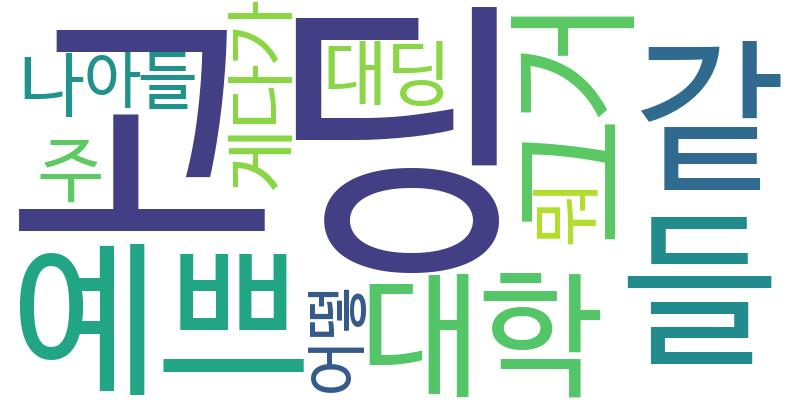
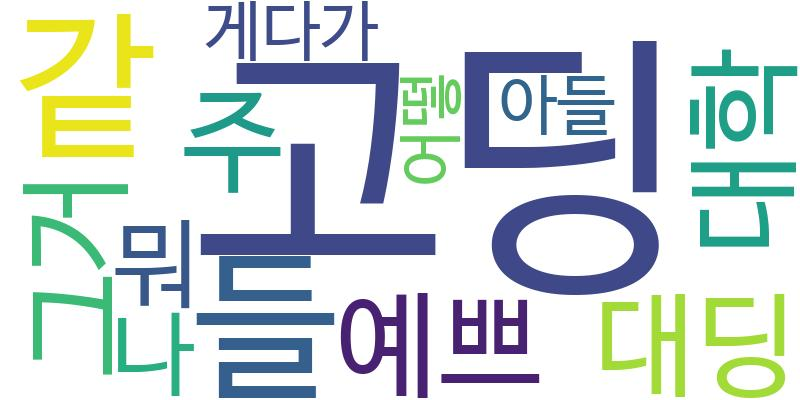
사용자사전 실습 수정
- jpg 경로 생성
- config 및 out 업로드

diff --git a/src/custom-dict/custom_dict_example.py b/src/custom-dict/custom_dict_example.py
@@ -123,6 +123,7 @@ class CustomDictAnalyzer:
 
     # 워드 클라우드 생성 및 시각화 함수
     def create_word_cloud(self, sentences, target_word, n=5, output_dir='out/jpg'):
+        os.makedirs('out/jpg', exist_ok=True)
         # N-gram 추출
         word_freq = Counter()
         for sentence in sentences:
@@ -229,7 +230,7 @@ class CustomDictAnalyzer:
 if __name__ == '__main__':
     corpus_targets = ['data/abbreviation']
     analyzer = CustomDictAnalyzer(corpus_targets)
-    # analyzer.run()
+    analyzer.run()
     custom_word_freq, next_token_tags, cleaned_sentences = analyzer.analyze_custom_dict_tokens('out/json/corpus/형태소분석_결과.json')
     analyzer.create_word_cloud(cleaned_sentences, target_word='고딩', n=3)
     analyzer.create_word_cloud(cleaned_sentences, target_word='직딩', n=3)
